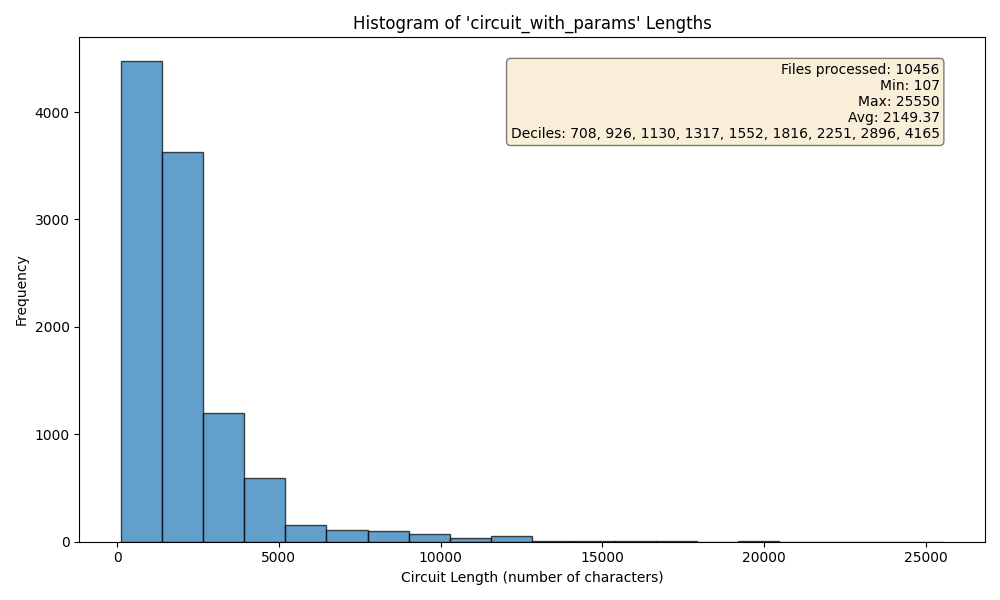
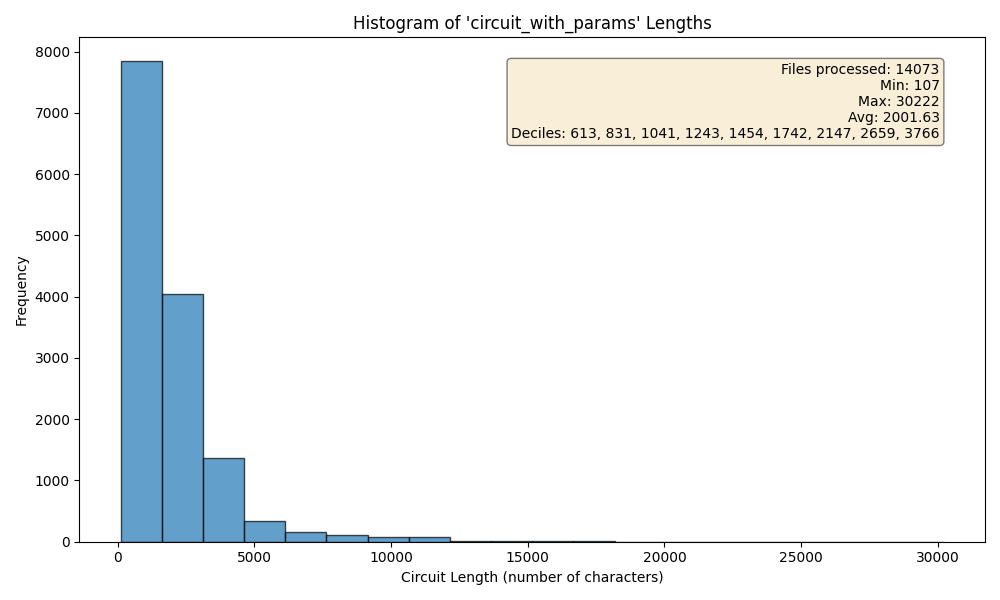
random

diff --git a/code/data_generation/sample_and_delete_files.py b/code/data_generation/sample_and_delete_files.py
@@ -55,7 +55,7 @@ def sample_files(folder: str, target_problem: str, sample_size: int, target_opti
 
 def main():
     FOLDER = "out/"
-    PROBLEM = "matching"
+    PROBLEM = "edge_cover"
     SAMPLE_SIZE = 1000
     DRY_RUN = False
     
